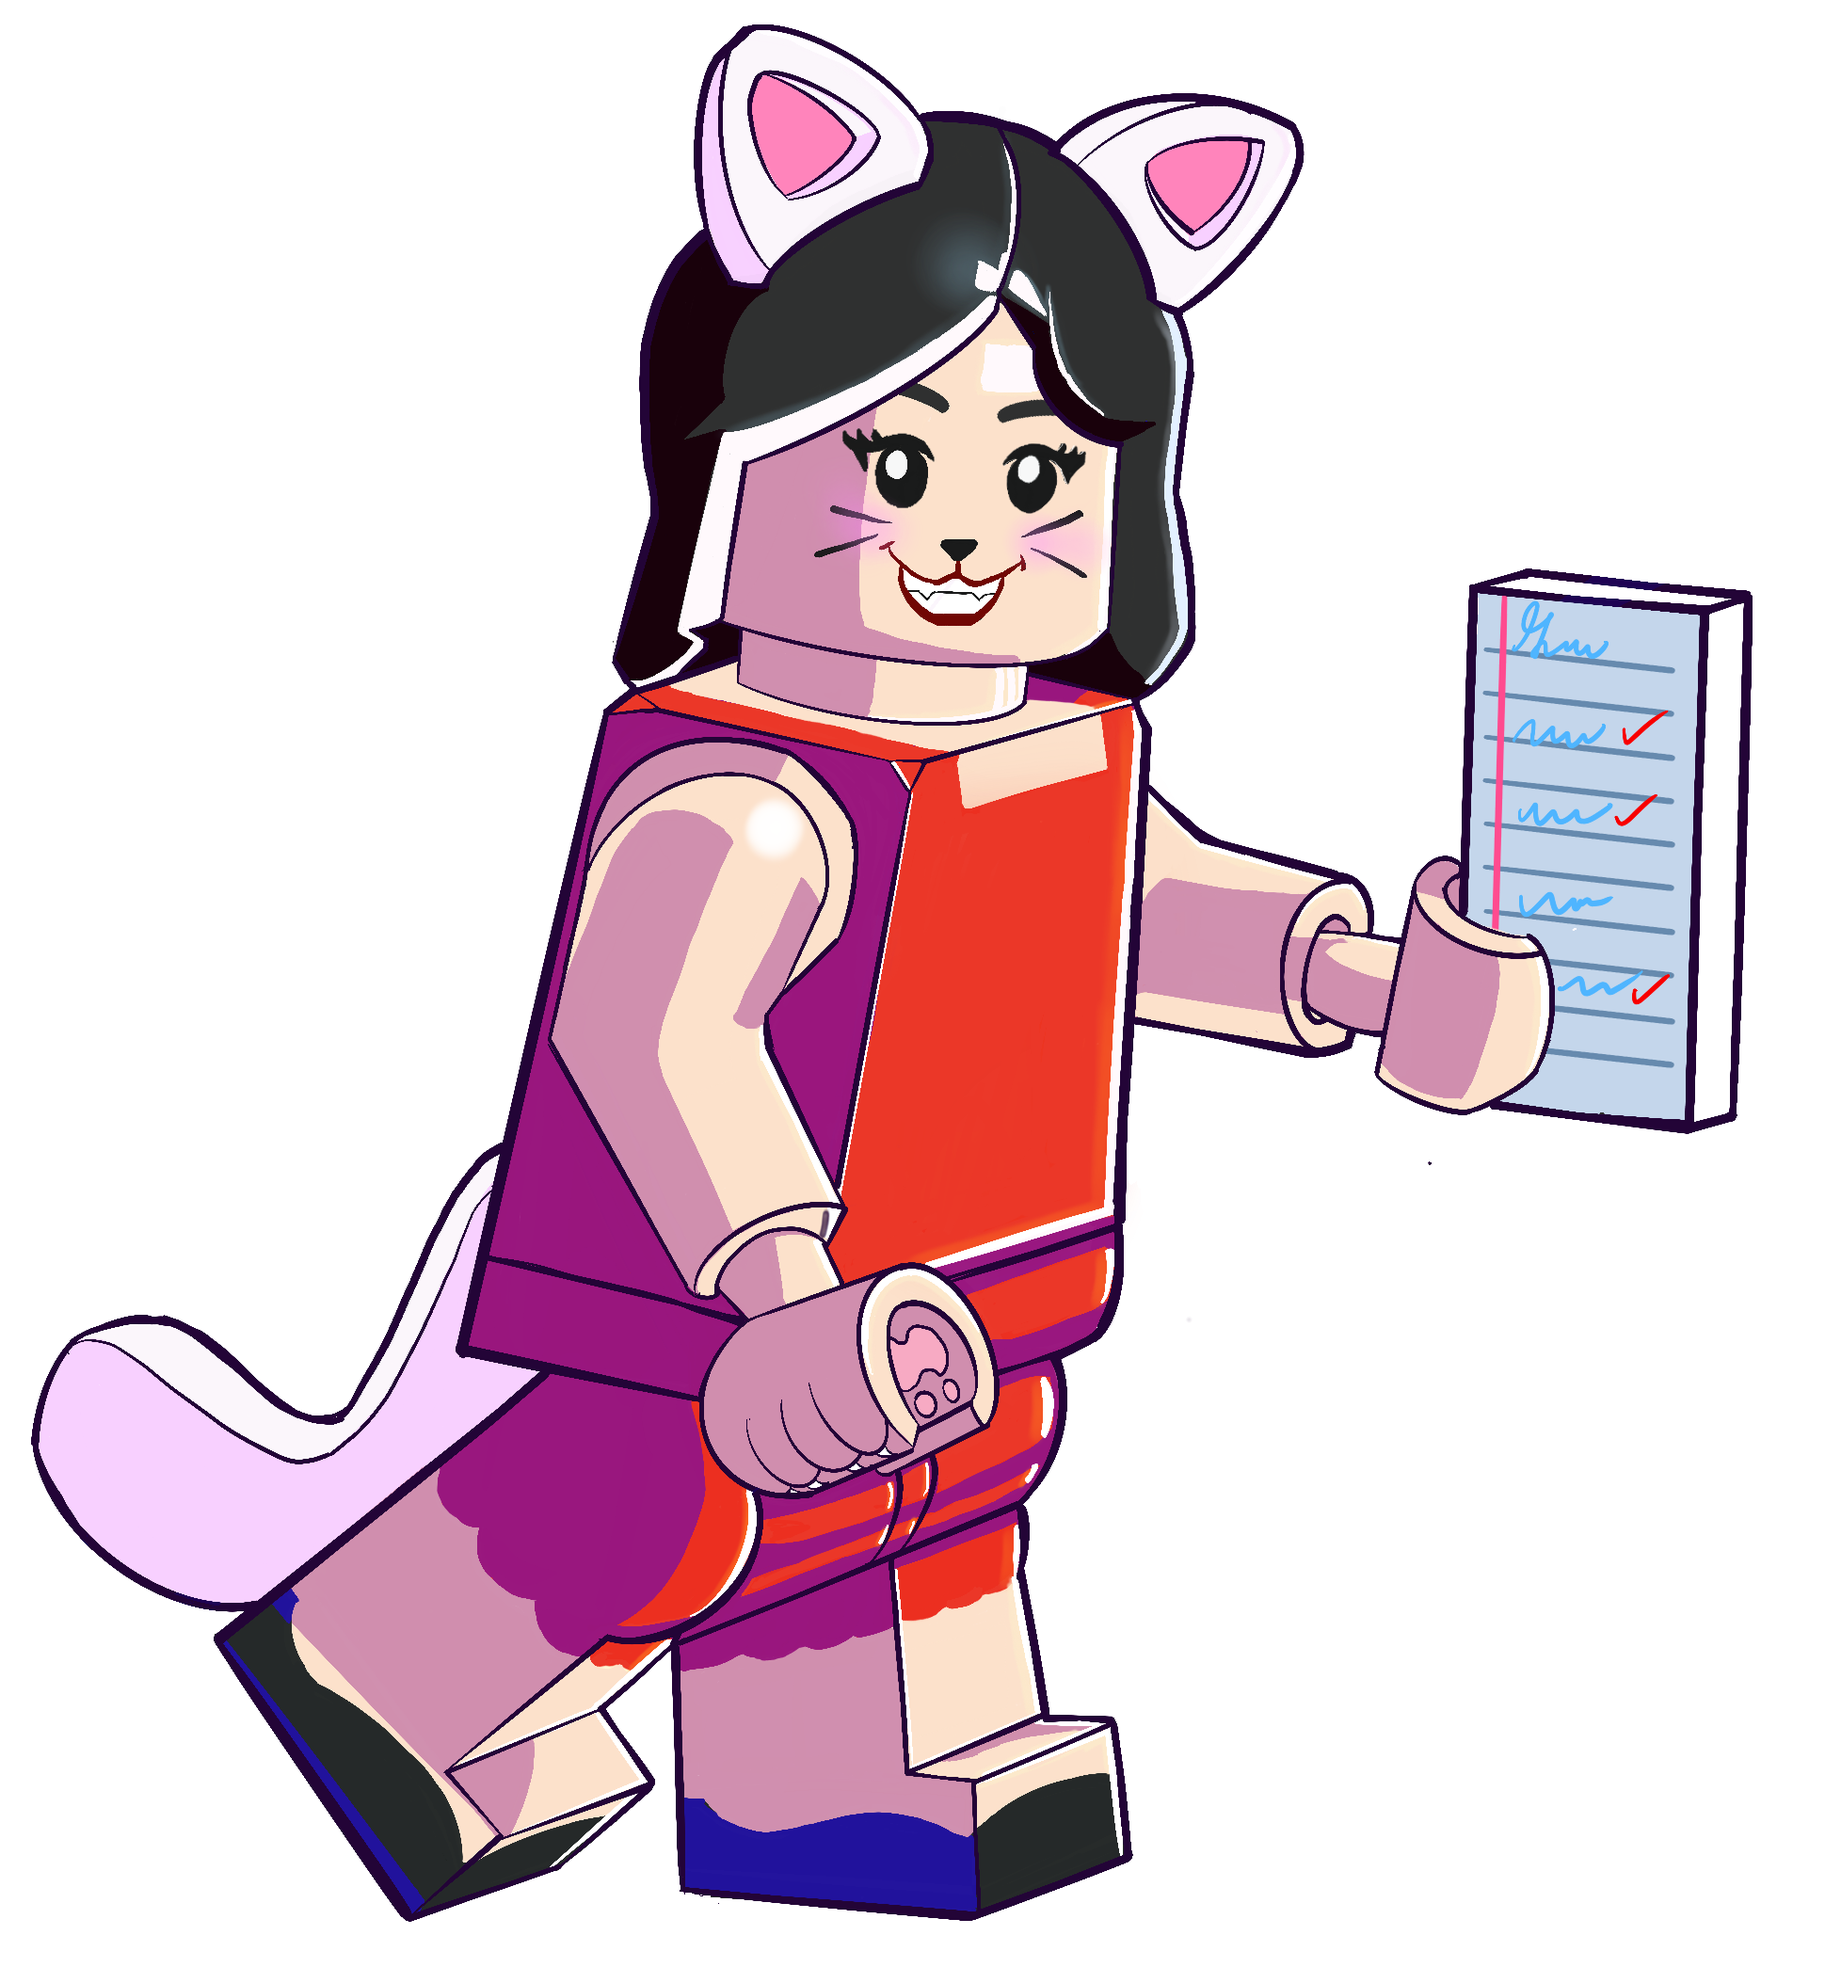
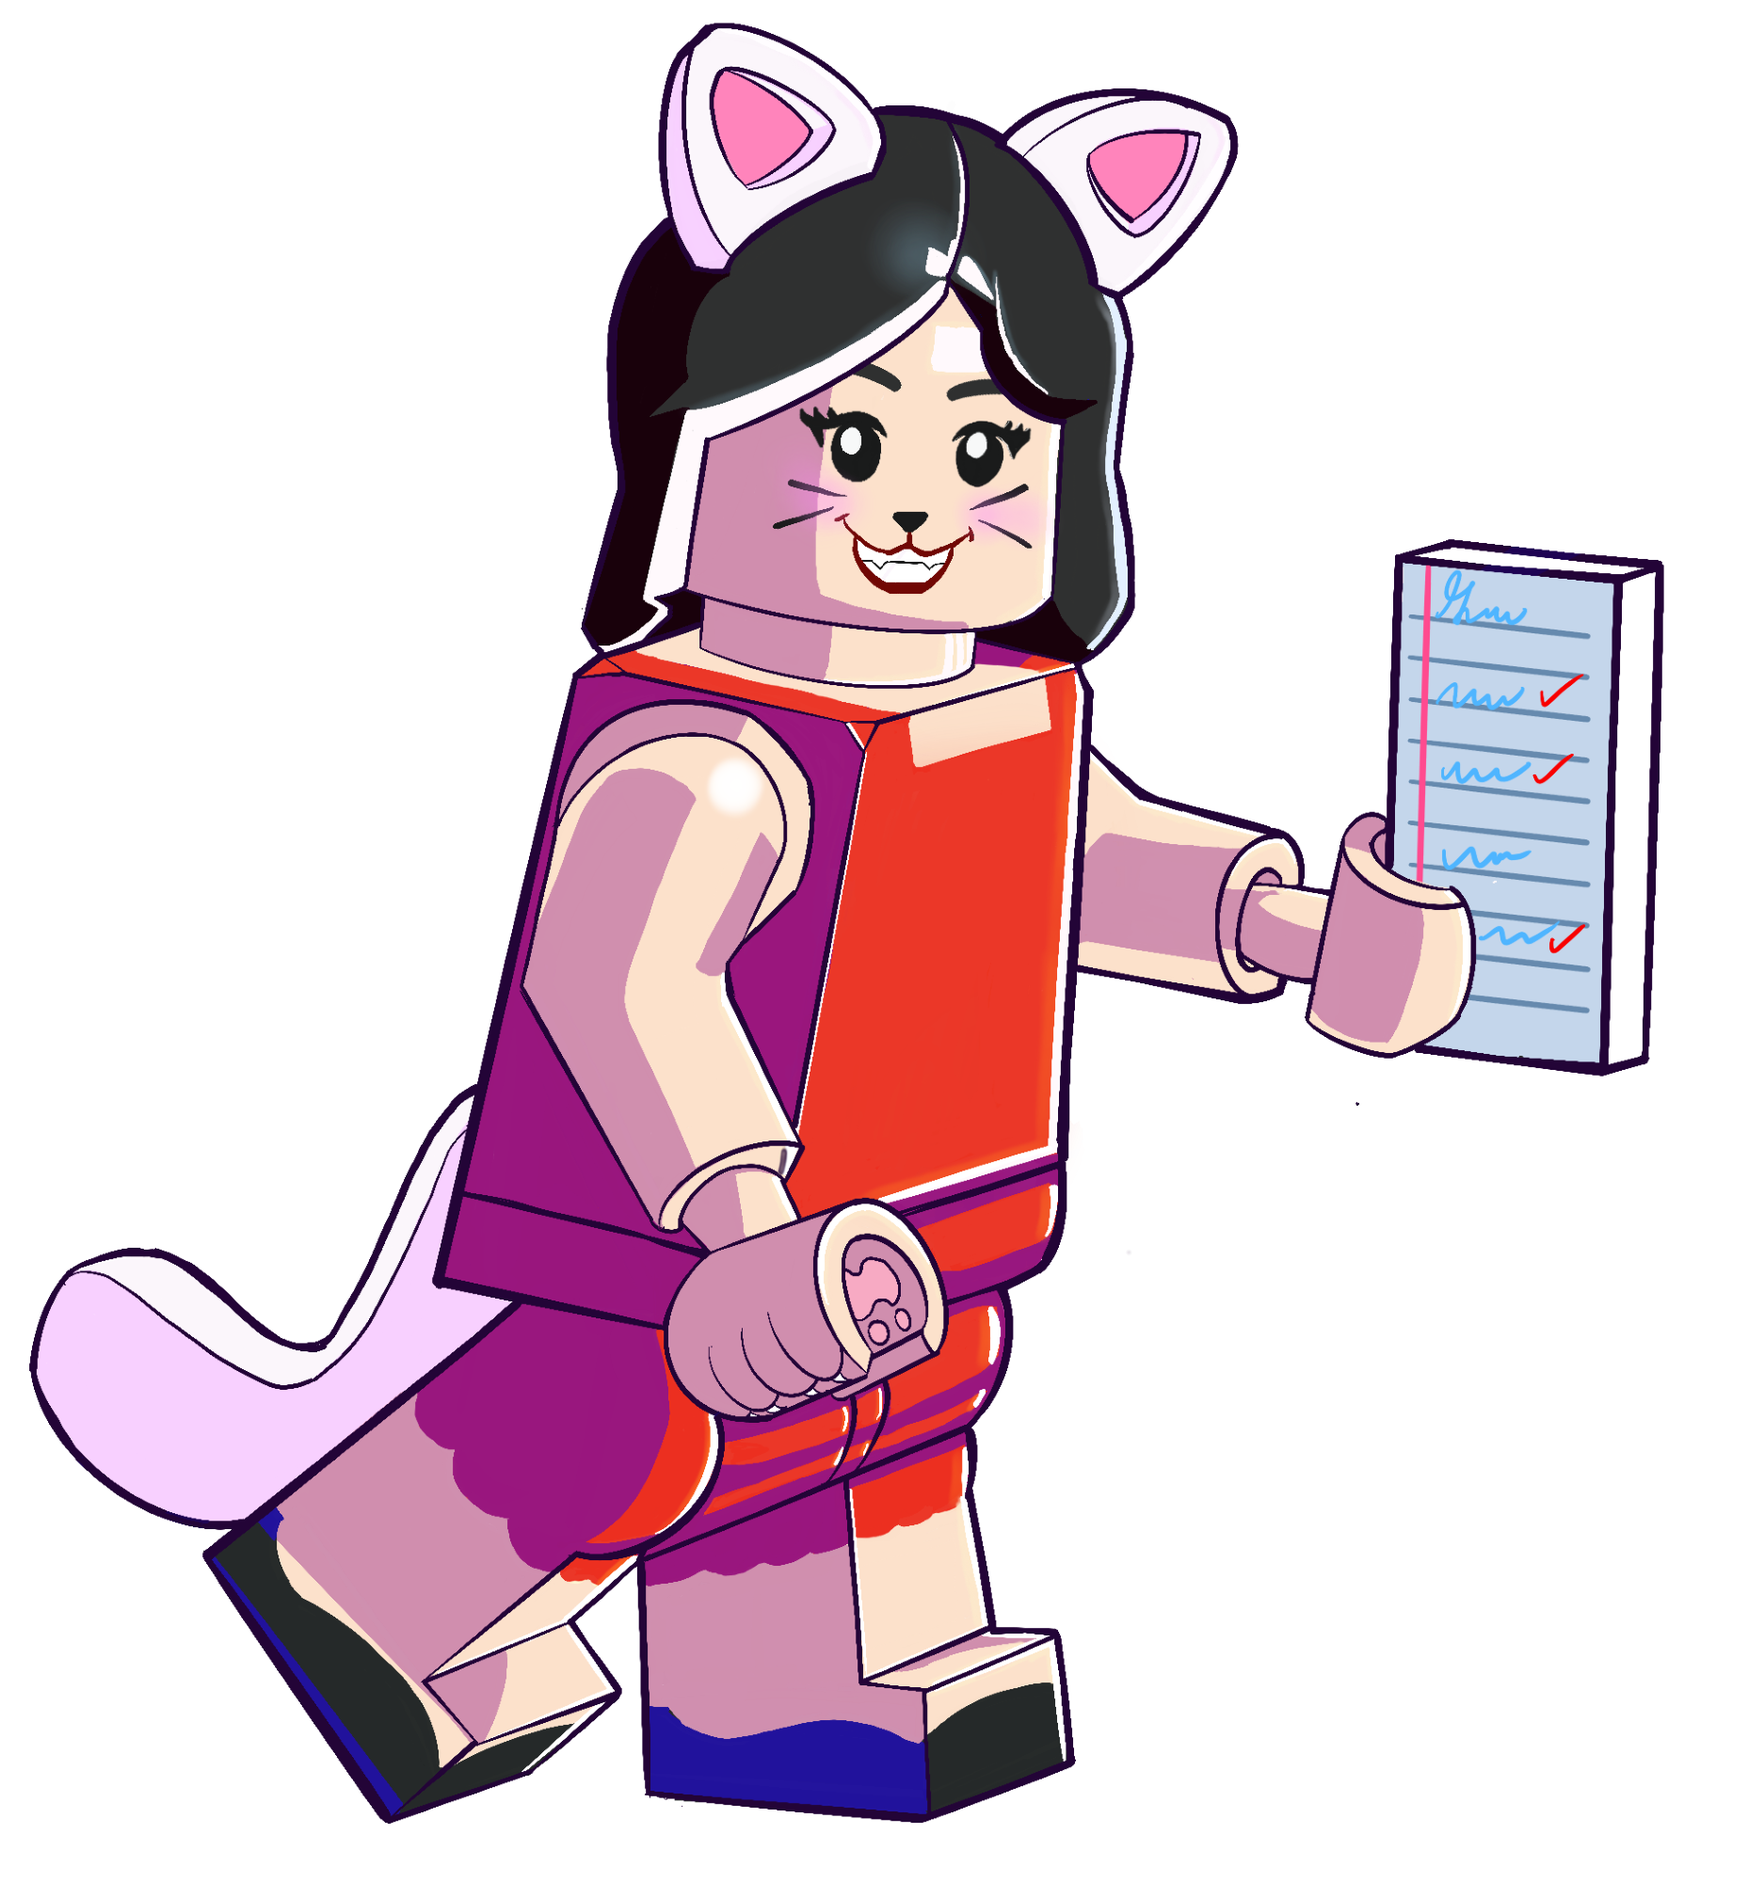
Fixed Monkeying Around image and added Contact Page.

diff --git a/index.html b/index.html
@@ -59,7 +59,7 @@
         <div id="navbar-links" class="navigation-links">
           <a href="#projects" data-text="PROJECTS" id="home-link">PROJECTS</a>
           <a href="#about" data-text="ABOUT" id="about-link">ABOUT</a>
-          <a href="#contact" data-text="CONTACT" id="contact-link">CONTACT</a>
+          <a href="./contact-me.html" data-text="CONTACT" id="contact-link">CONTACT</a>
           <!-- <a href="https://drive.google.com/file/d/1usXrZ6GBXpSlakd0ZCN4fH4KUHCErh4C/view?usp=sharing" data-text="RESUME" id="about-link">RESUME</a> -->
         </div>
           <div class="menubar">
@@ -166,7 +166,6 @@
         </div>
         
         <projects-gallery-grid></projects-gallery-grid>
-
       
       <!--projects end-->
 
@@ -205,60 +204,7 @@
       </div>
       <!--about end-->
       <!--contact-->
-      <div id="contact">
-        <div class="section-header">
-          Contact <span class="color-title-purple"> Me</span>
-          <div class="header-caption">
-            <span class="color-title-purple"> Get</span> In Touch.
-          </div>
-        </div>
-        <div class="contact-content">
-          <!--Contact information-->
-          <div class="contact-info">
-            <div class="section-header">Contact Info</div>
-            <div class="contact-info-content">
-              <div class="contect-info-content-line">
-                <img
-                  src="./images/icon-name.png"
-                  class="icon"
-                  alt="name-icon"
-                />
-                <div class="contact-info-icon-text">
-                  <h6>Name</h6>
-                  <p>Grace Marie Rodr&#205;guez-G&#243;mez</p>
-                </div>
-              </div>
-              <div class="contect-info-content-line">
-                <img
-                  src="./images/icon-location.png"
-                  class="icon"
-                  alt="location-icon"
-                />
-                <div class="contact-info-icon-text">
-                  <h6>Location</h6>
-                  <p>Pittsburgh, PA</p>
-                </div>
-              </div>
 
-              <div class="contect-info-content-line">
-                <img
-                  src="./images/icon-email.png"
-                  class="icon"
-                  alt="email-icon"
-                />
-                <div class="contact-info-icon-text">
-                  <h6>Email</h6>
-                  <p>gracemarierodriguez6@gmail.com</p>
-                </div>
-              </div>
-            </div>
-            <!--Contact information end-->
-          </div>
-            <div class="contact-image">
-              <img src="./images/Master_Oil_Painting_Study.jpeg"/>
-            </div>
-        </div>
-      </div>
 
     </div>
     <!--all the divisions-->

diff --git a/contact-me.html b/contact-me.html
@@ -1,0 +1,88 @@
+<!DOCTYPE html>
+<html lang="en">
+  <head>
+    <meta charset="UTF-8" />
+    <meta name="viewport" content="width=device-width, initial-scale=1.0" />
+    <meta
+      name="description"
+      content="Grace M Rodriguez-Gomez - Project Page"
+    />
+    <meta
+      name="keywords"
+      content="portfolio, projects, game development, technical artist"
+    />
+    <meta name="author" content="Grace M Rodriguez-Gomez" />
+    <title>Monkeying Around</title>
+    <!-- Favicon -->
+    <link rel="icon" type="image/png" href="../images/favicon.png" />
+    <!-- Main CSS -->
+    <link rel="stylesheet" href="../css/index.css" />
+    <!-- Additional CSS for project page -->
+     <!-- JS scripts -->
+    <script src="../js/index.js"></script>
+    <script async src="../js/components/nav-bar.js"></script>
+  </head>
+  <body>
+    <!-- Navigation -->
+  <navbar-component></navbar-component>
+
+  <div id="contact">
+    <div class="section-header">
+      Contact <span class="color-title-purple"> Me</span>
+    </div>
+
+    <p class="contact-info-icon-text"> If you want to see my resume, please send me a message to my email or through LinkedIn.</p>
+    
+    <div class="contact-content">
+      <!--Contact information-->
+      <div class="contact-info">
+        <div class="contact-info-content">
+          <div class="contect-info-content-line">
+
+            <img
+              src="./images/icon-name.png"
+              class="icon"
+              alt="name-icon"
+            />
+
+            <div class="contact-info-icon-text">
+              <h6>Name</h6>
+              <p>Grace Marie Rodr&#205;guez-G&#243;mez</p>
+            </div>
+
+          </div>
+
+          <div class="contect-info-content-line">
+            <img
+              src="./images/icon-email.png"
+              class="icon"
+              alt="email-icon"
+            />
+            <div class="contact-info-icon-text">
+              <h6>Email</h6>
+              <p>gracemarierodriguez6@gmail.com</p>
+            </div>
+          </div>
+
+          <div class="contect-info-content-line">
+            <img
+              src="images/linkedin logo.png"
+              class="icon"
+              alt="linkedin-icon"
+            />
+            <div class="contact-info-icon-text">
+              <h6>LinkedIn</h6>
+              <p><a href="https://www.linkedin.com/in/gracemrodriguez/" target="_blank" rel="noopener noreferrer">https://www.linkedin.com/in/gracemrodriguez/</a></p>
+            </div>
+          </div>
+        </div>
+
+        
+        <!--Contact information end-->
+      </div>
+    </div>
+  </div>
+
+
+  </body>
+</html>

diff --git a/css/index.css b/css/index.css
@@ -689,9 +689,8 @@ body {
 }
 
 .header-caption {
-  opacity: 0.8;
   display: block;
-  font-size: 20px;
+  font-size: 24px;
   padding: 8px;
   padding-top: 15px;
   color: whitesmoke;
@@ -1044,7 +1043,10 @@ button:hover .index {
   flex-direction: column;
   justify-content: center;
   align-items: center;
+  color: whitesmoke;
+  font-size: 24px;
 }
+
 .contact-info::before {
   content: "";
   width: 100%;
@@ -1157,18 +1159,18 @@ form button:hover {
   color: whitesmoke;
   padding: 15px;
   font-family: poppins;
+  font-size:20px;
 }
-.contact-info-icon-text h6 {
-  font-size: 15px;
-  opacity: 0.8;
-}
-.contact-info-icon-text p {
-  font-size: 14px;
-  opacity: 0.7;
-}
+
+  .contact-info-icon-text a:-webkit-any-link{
+    color: whitesmoke;
+    text-decoration: underline;
+  }
+
+
 .icon {
-  height: 40px;
-  opacity: 0.8;
+  max-height: 40px;
+  margin: 10px;
 }
 
 .footer {
@@ -1532,6 +1534,7 @@ For devices with smaller width like mobile phone
     position: relative;
     overflow: hidden;
   }
+
   .contact-info::before {
     content: "";
     width: 100%;
@@ -1544,28 +1547,28 @@ For devices with smaller width like mobile phone
   }
   .contect-info-content-line {
     height: auto;
-    padding: 10px;
+    /* padding: 10px; */
     position: relative;
-    z-index: 2;
     display: flex;
     flex-direction: row;
     align-items: center;
     text-align: left;
-    margin-left: 5%;
+    margin-left: 10px;
   }
+
   .contact-info-icon-text {
     color: whitesmoke;
     padding: 15px;
     font-family: poppins;
+    font-size: 20px;
   }
-  .contact-info-icon-text h6 {
-    font-size: 15px;
-    opacity: 0.8;
+
+
+  .contact-info-icon-text a:-webkit-any-link{
+    color: whitesmoke;
+    text-decoration: none;
   }
-  .contact-info-icon-text p {
-    font-size: 14px;
-    opacity: 0.7;
-  }
+
   .hire-me-section {
     display: none;
   }
@@ -1933,7 +1936,7 @@ for tabs and large phones
     flex-direction: row;
   }
   .contact-info {
-    width: 40%;
+    max-width: 70%;
     background-position: center;
     background-size: cover;
     border-radius: 16px;
@@ -2076,8 +2079,8 @@ video-wrapper{
   max-width: 50vw
 }
 
-.project-page-images img{
-  max-height: 40vw;
+.project-page-image img{
+  max-width: 50vw;
   
 }
 

diff --git a/js/components/nav-bar.js b/js/components/nav-bar.js
@@ -12,8 +12,7 @@
           <a href="../index.html" data-text="HOME" id="home-link">HOME</a>
           <a href="../index.html#projects" data-text="PROJECTS" id="home-link">PROJECTS</a>
           <a href="../index.html#about" data-text="ABOUT" id="about-link">ABOUT</a>
-          <a href="../index.html#contact" data-text="CONTACT" id="contact-link">CONTACT</a>
-          <a href="https://drive.google.com/file/d/1jDiT6LBT8F3XrnhIf0IYOXThO4Rs0mbH/view?usp=sharing" data-text="RESUME" id="about-link">RESUME</a>
+          <a href="../contact-me.html" data-text="CONTACT" id="contact-link">CONTACT</a>
         </div>
           <div class="menubar">
             <span class="first-span"></span>
